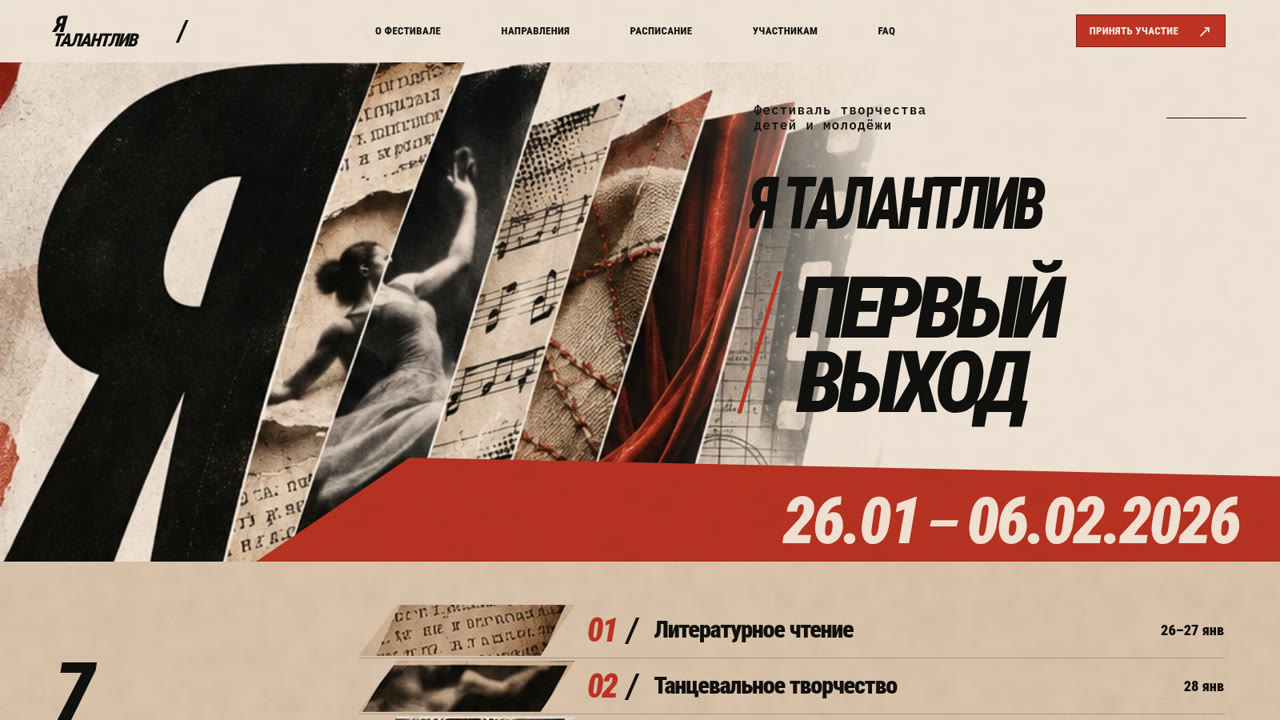
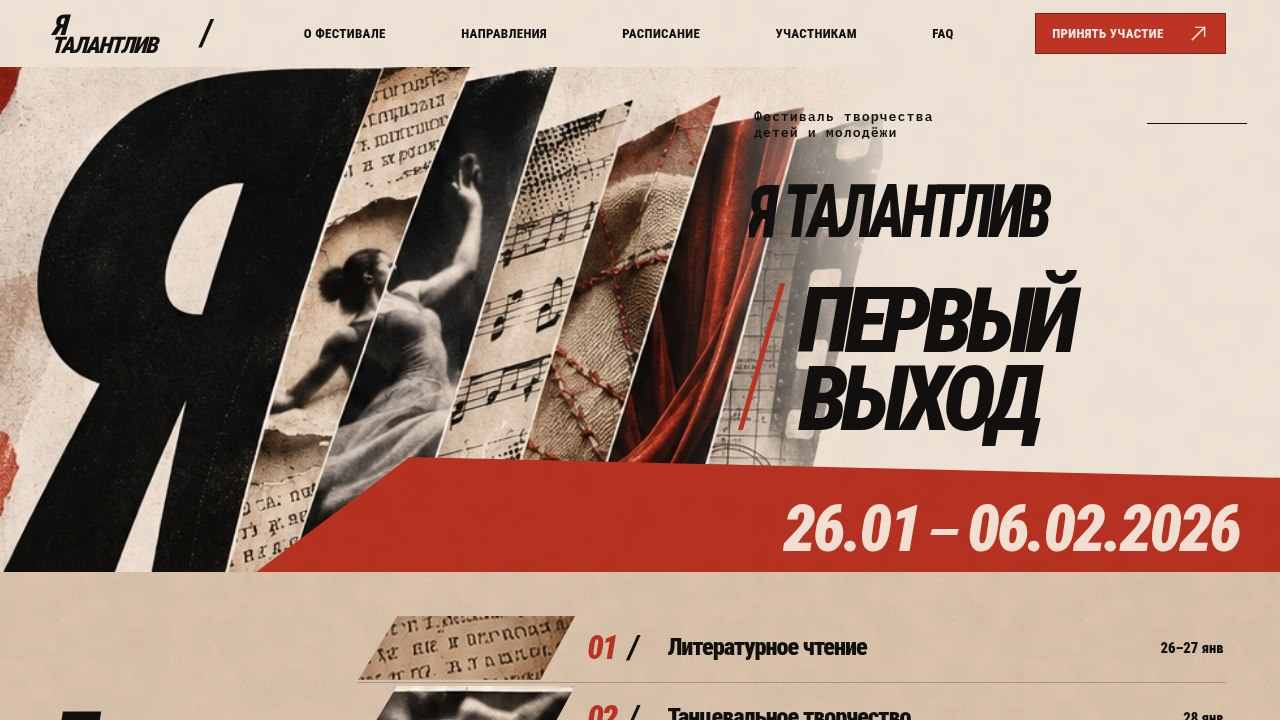
fix(portfolio): show full Я Талантлив preview without cropping

diff --git a/src/index.css b/src/index.css
@@ -2223,3 +2223,20 @@ img {
   .work-hero-trust div:nth-last-child(-n+2) { border-bottom: 0; }
   .work-partner-panel { padding: 1.15rem; }
 }
+
+/* Festival case: source screenshot is 16:9; don't crop last date digits on mobile. */
+.project-inline-image[src*="imgifted-fest"],
+.work-example-media:has(> img[src*="imgifted-fest"]) {
+ aspect-ratio:16/9;
+}
+.project-inline-image[src*="imgifted-fest"],
+.work-example-media img[src*="imgifted-fest"] {
+ object-fit:contain;
+ object-position:center;
+}
+.work-example-media:has(> img[src*="imgifted-fest"]) {background:#ecdfd3}
+.work-example-media img[src*="imgifted-fest"] {transform:none}
+.work-example:hover .work-example-media img[src*="imgifted-fest"] {transform:scale(1.012)}
+/* Festival floating preview follows the same uncropped 16:9 frame. */
+.project-float-preview-media:has(> img[src*="imgifted-fest"]) {aspect-ratio:16/9;background:#ecdfd3}
+.project-float-preview img[src*="imgifted-fest"] {object-fit:contain}
